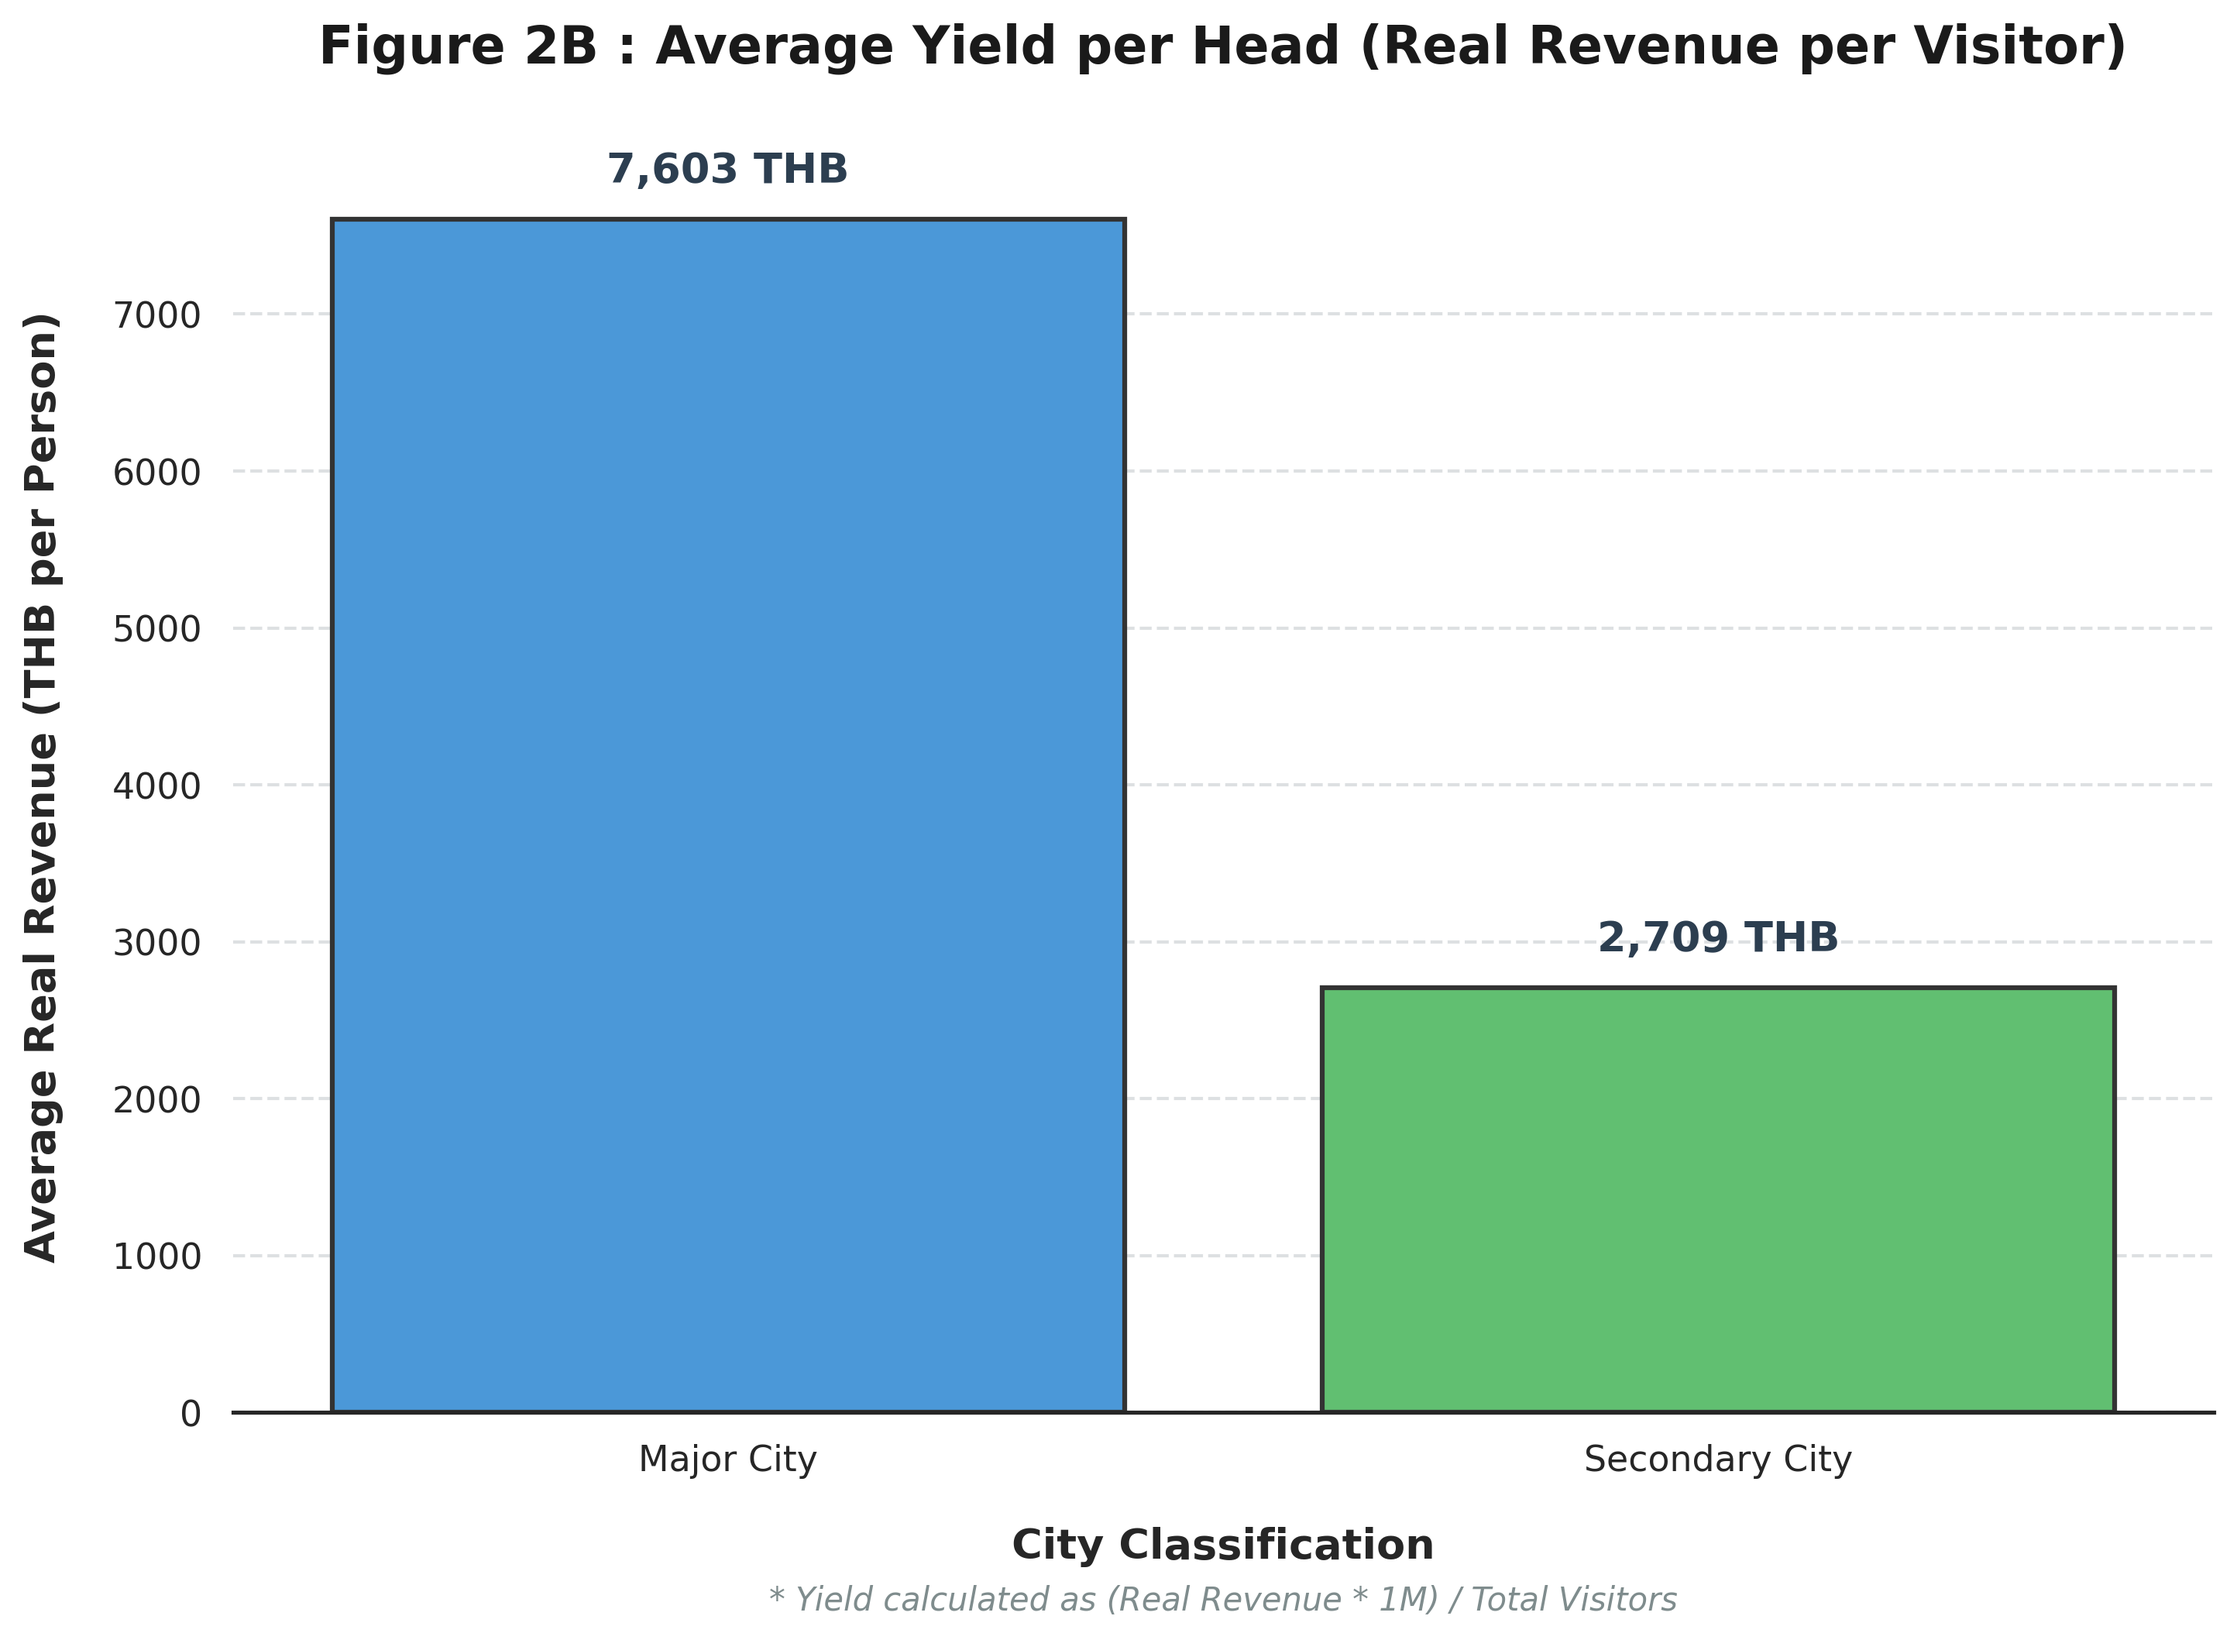
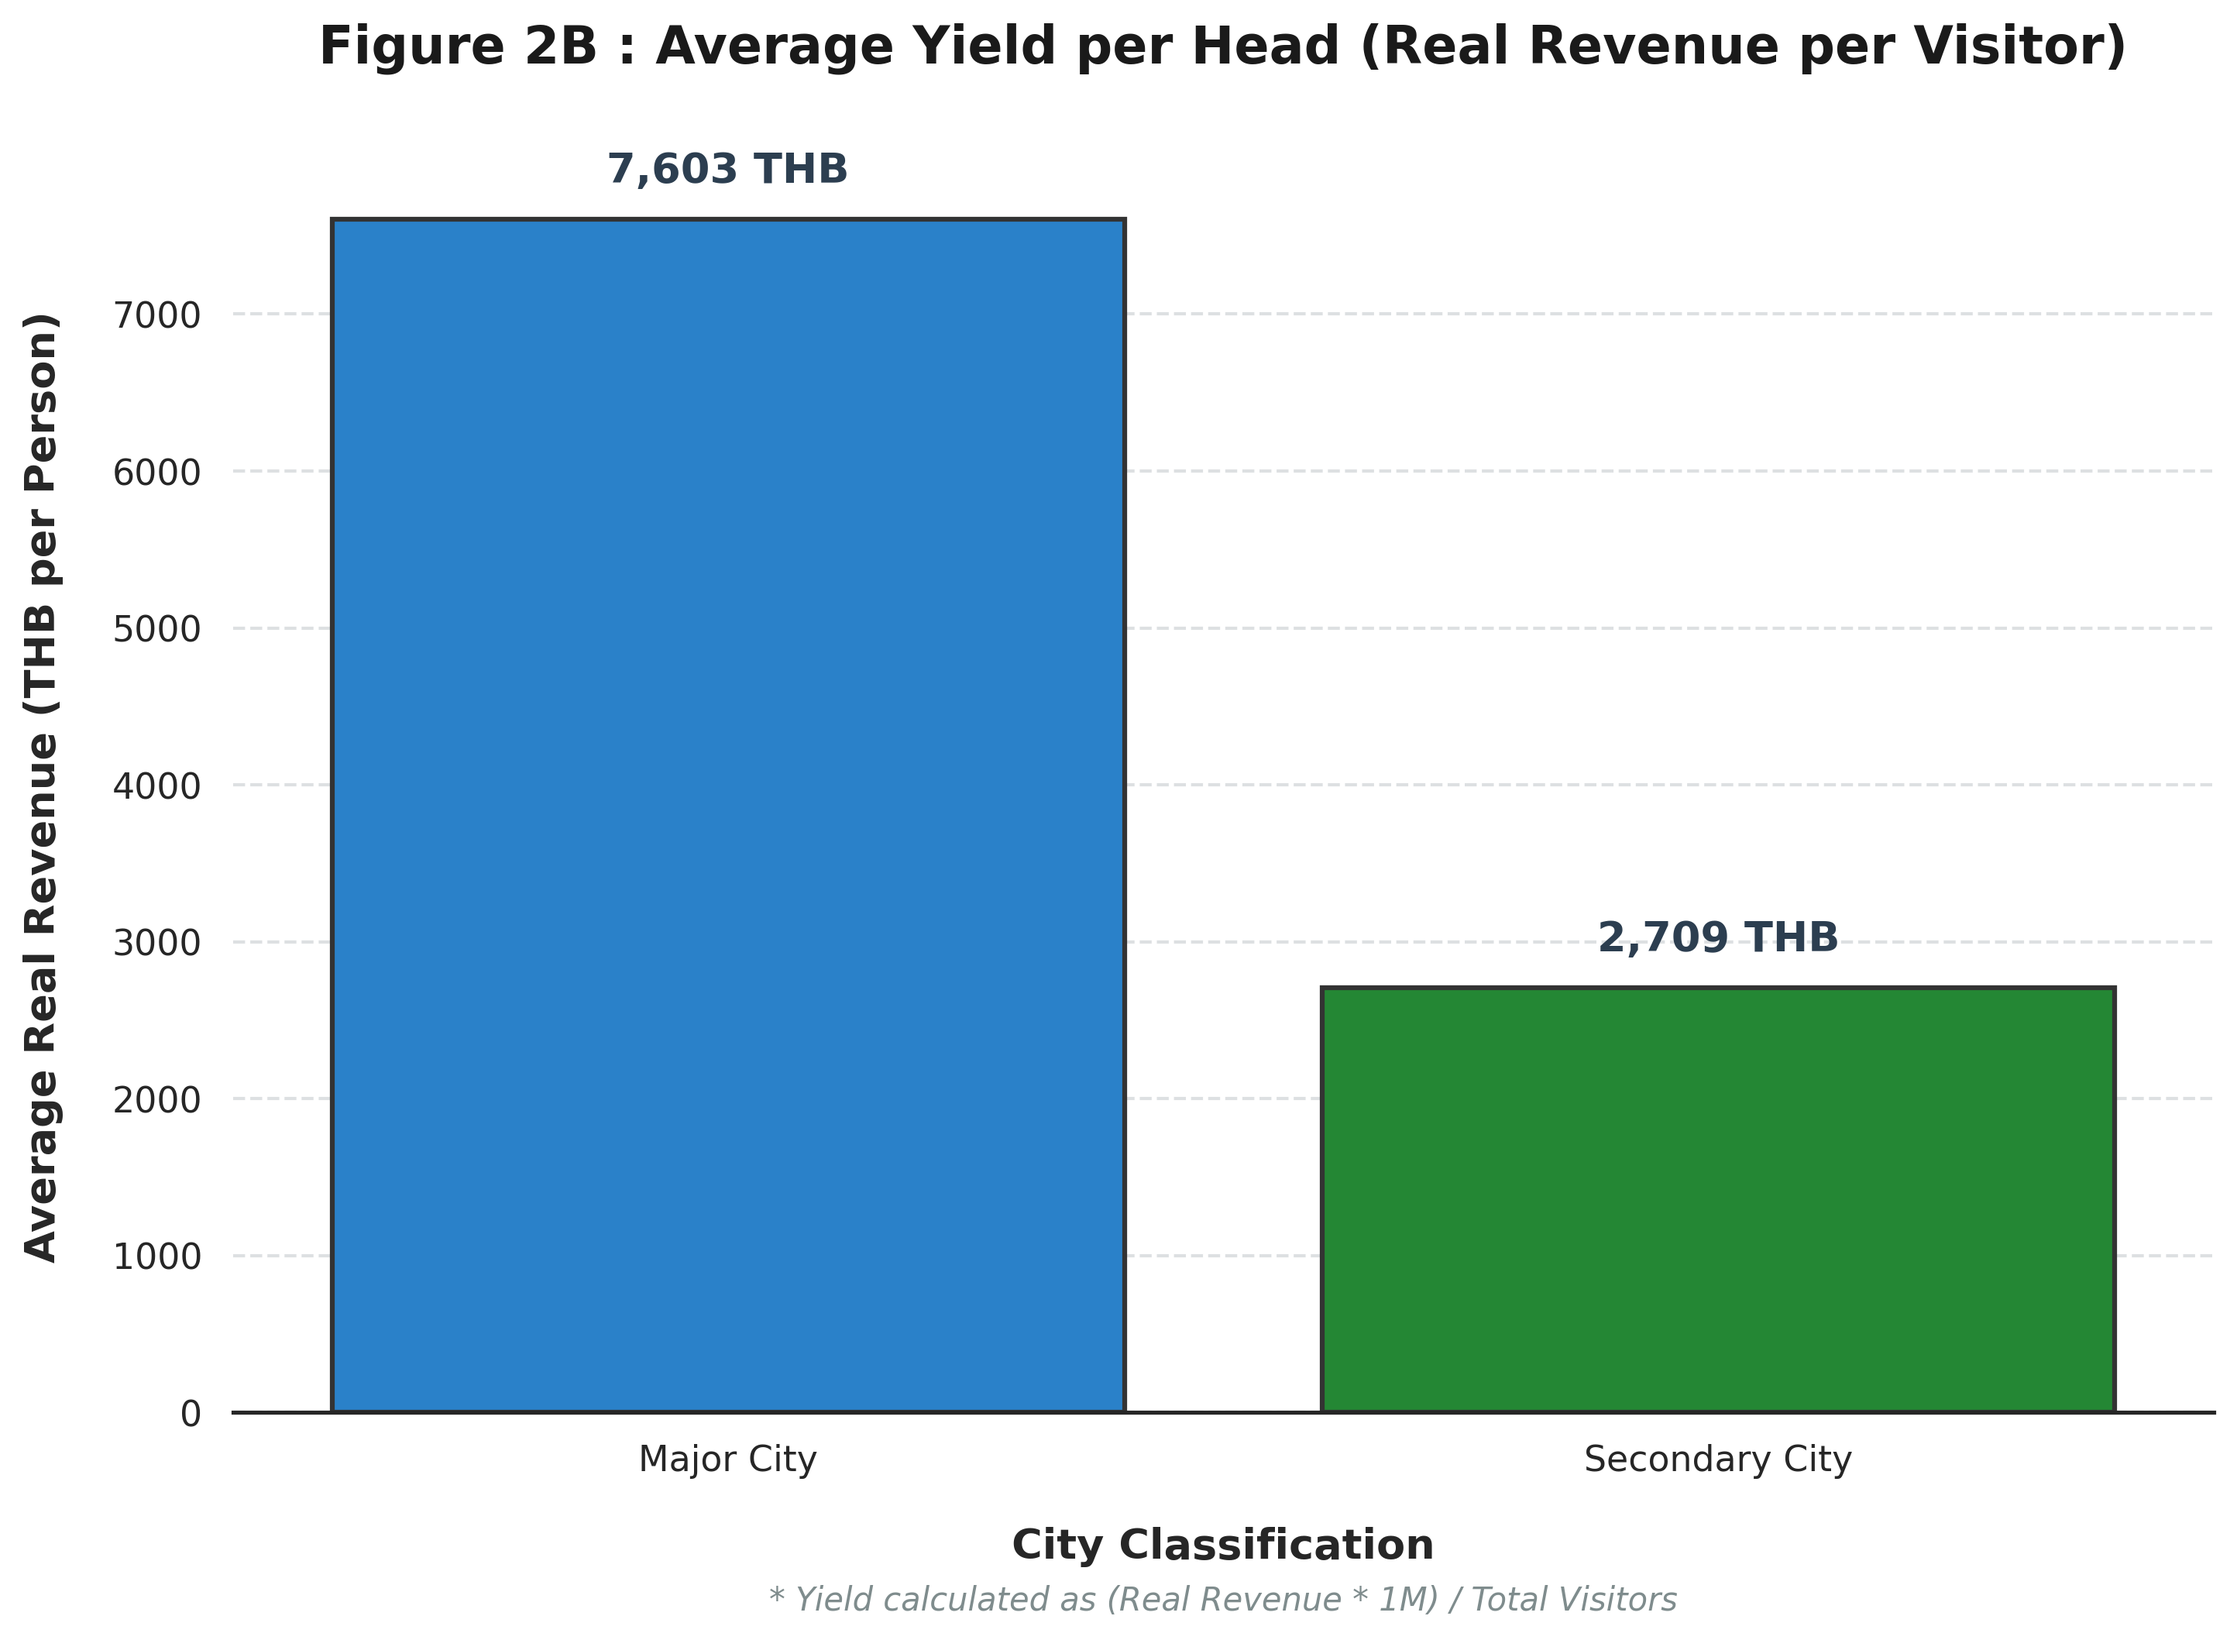
update cleaned data and script

diff --git a/visualizations/01.1_YieldPerHead.py b/visualizations/01.1_YieldPerHead.py
@@ -33,14 +33,13 @@ yield_stats = df.groupby('City_type_EN')['yield_per_head'].mean().sort_values(as
 sns.set_theme(style="white") # พื้นหลังขาวสะอาด
 plt.figure(figsize=(11, 7))
 
-# กำหนดสี: เมืองหลัก = สีฟ้า (#339af0), เมืองรอง = สีเขียว (#51cf66)
 # ตรวจสอบลำดับใน yield_stats เพื่อใส่สีให้ตรง
 palette = []
 for city in yield_stats['City_type_EN']:
     if 'Major' in city:
-        palette.append('#339af0') # Blue
+        palette.append("#1084e3") # Blue
     else:
-        palette.append('#51cf66') # Green
+        palette.append("#139829") # Green
 
 ax = sns.barplot(data=yield_stats, x='City_type_EN', y='yield_per_head', palette=palette, edgecolor=".2", linewidth=1.5)
 
